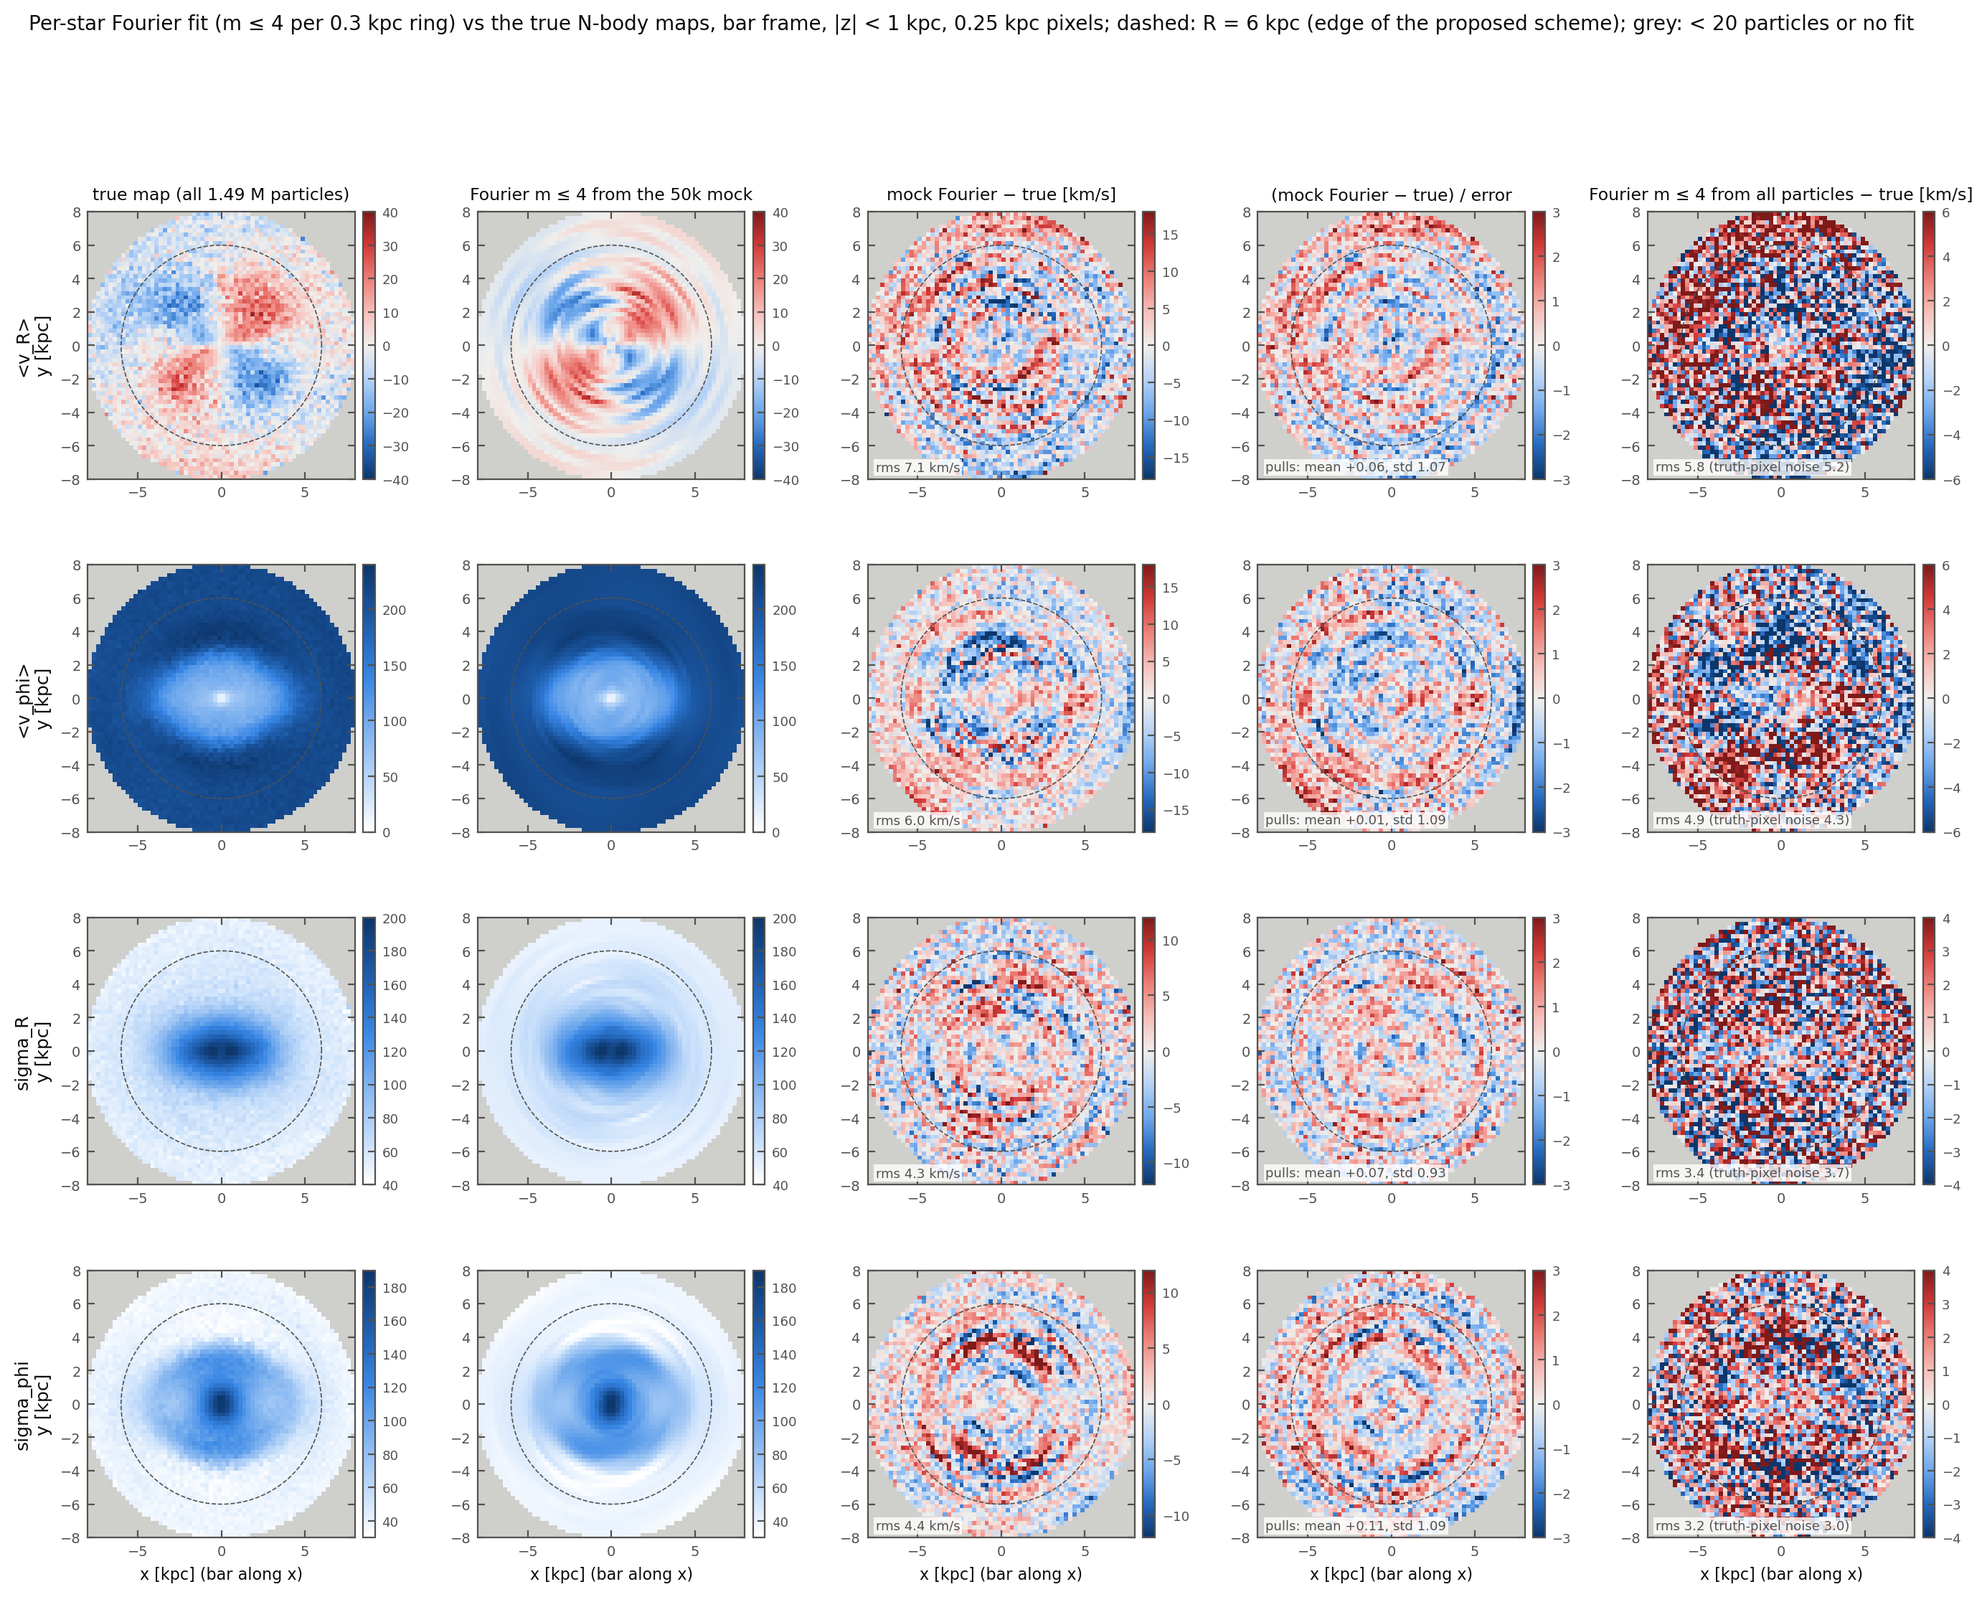
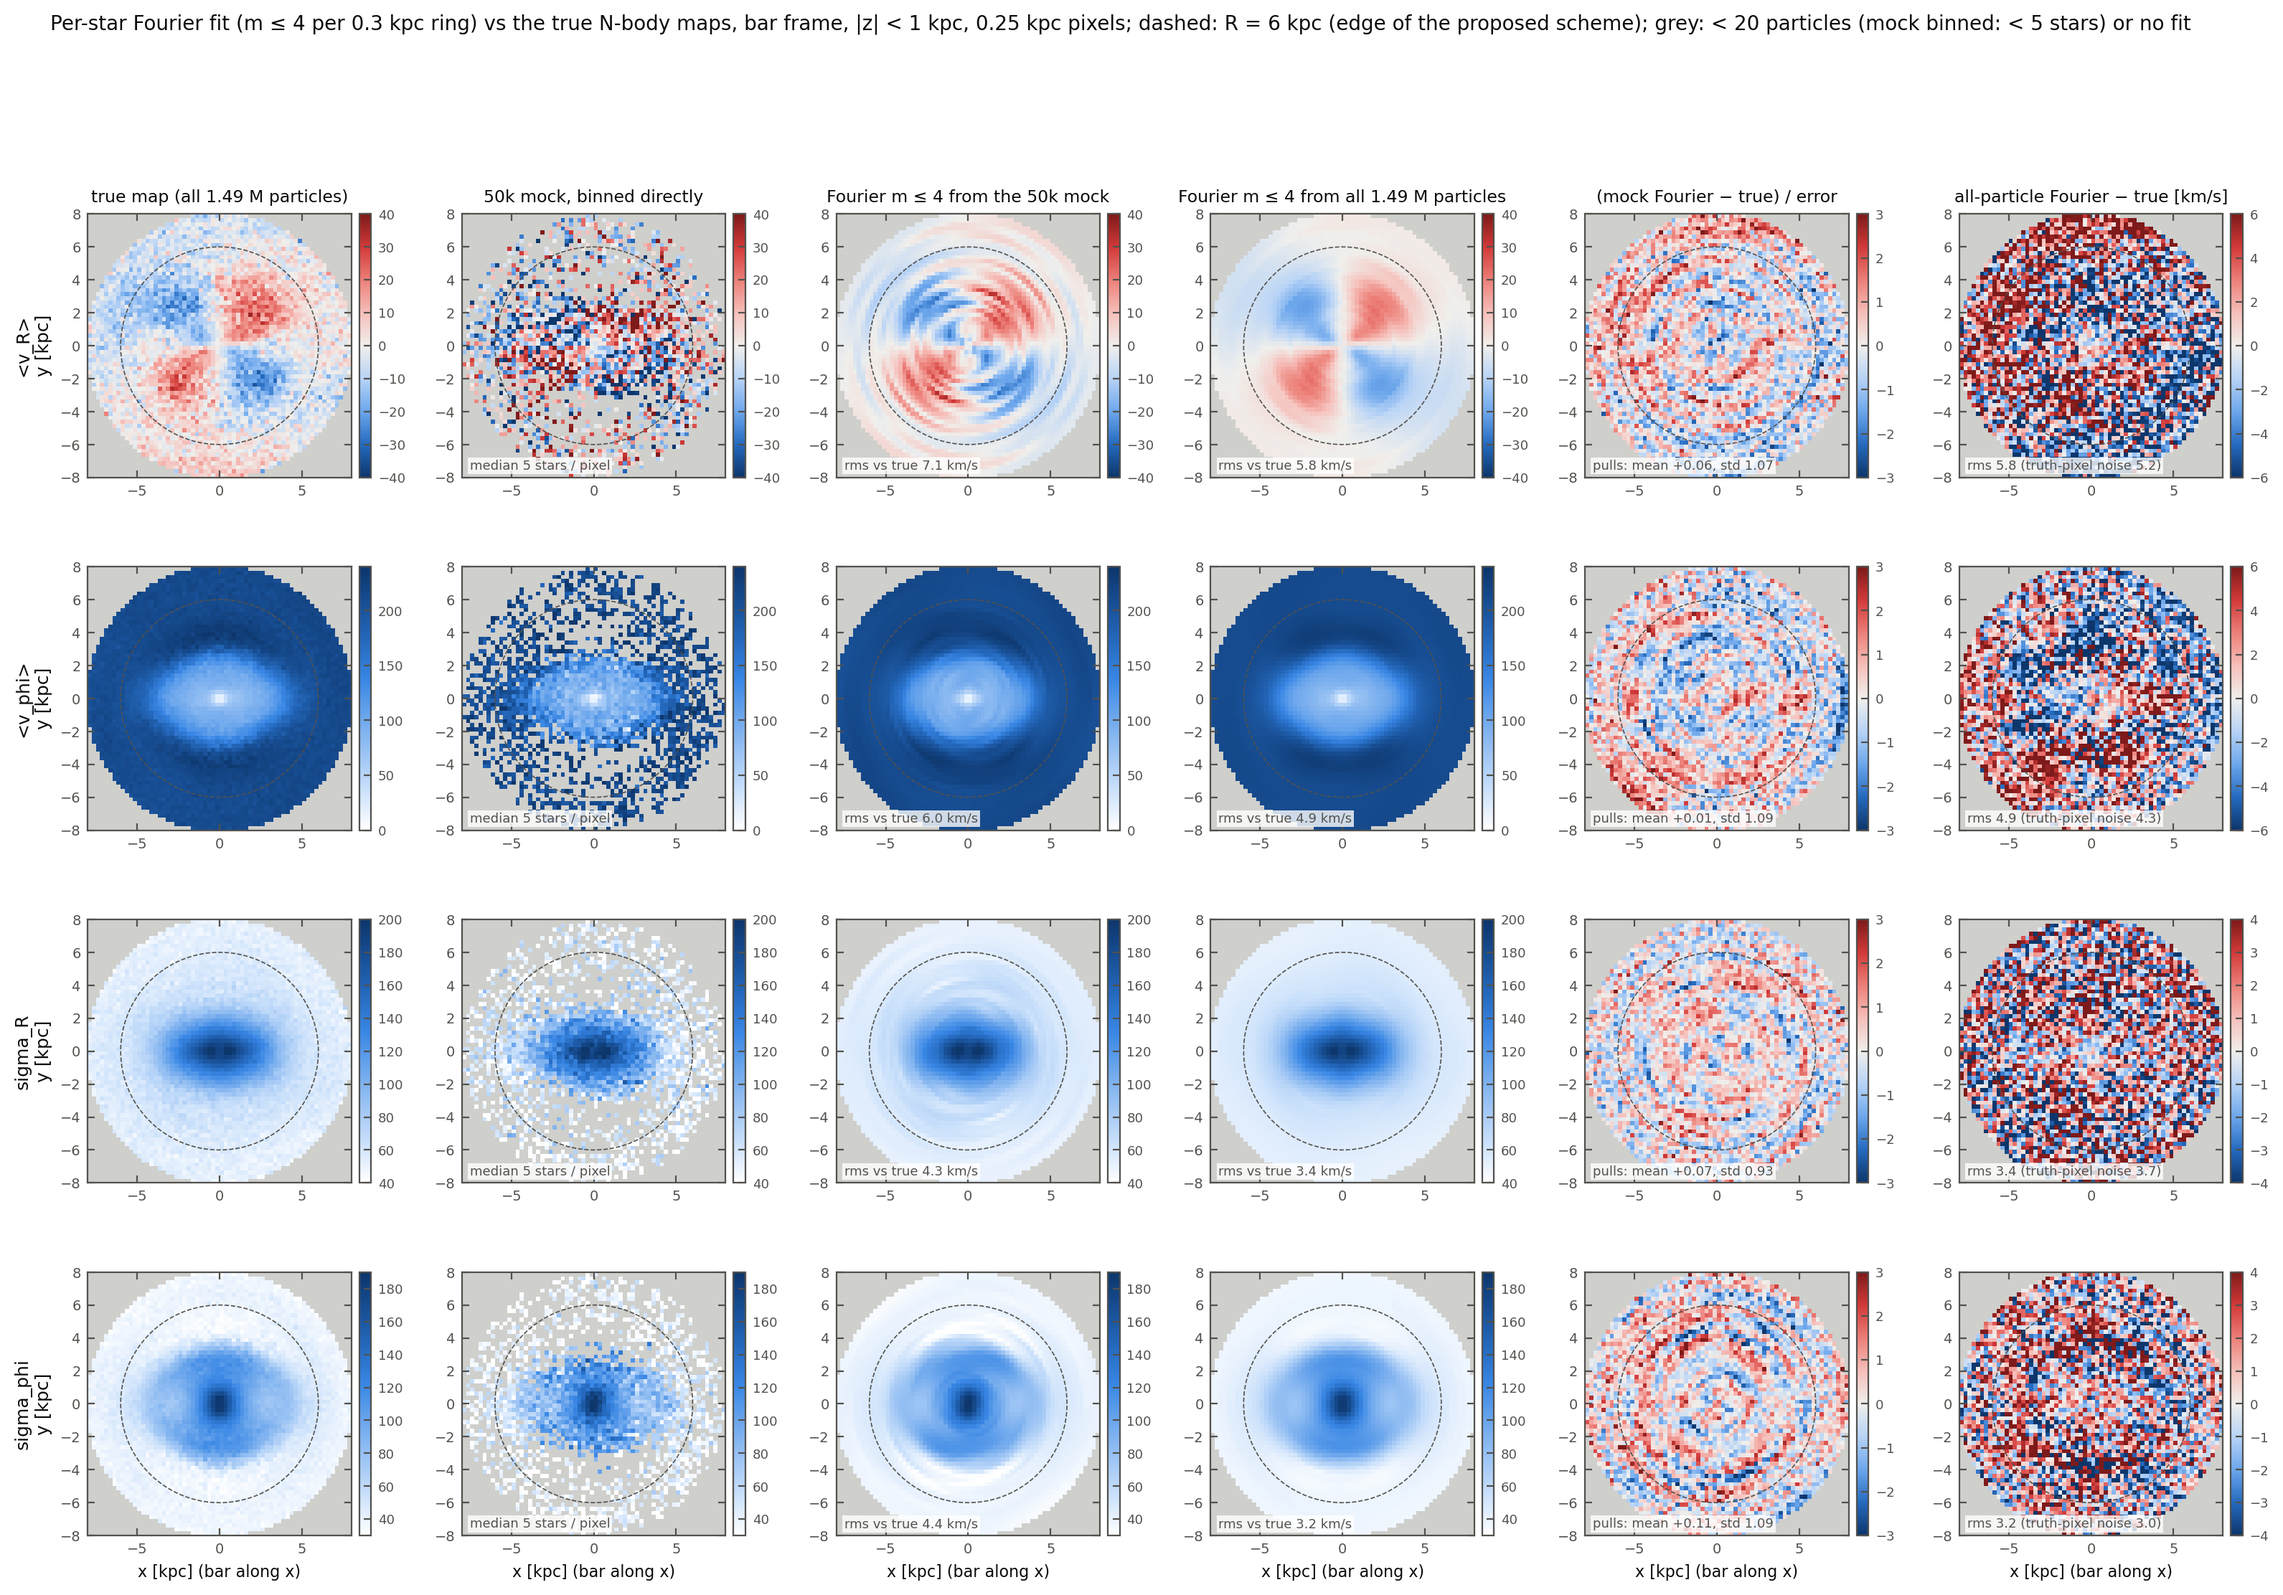
Ground-truth check: add raw-mock and all-particle reconstruction maps, per-ring signal to noise

diff --git a/scripts/check_fourier_star_fit_vs_true_maps.py b/scripts/check_fourier_star_fit_vs_true_maps.py
@@ -15,7 +15,13 @@ at random), in the bar frame at the true angle (27 deg), number-weighted like th
      field, and chi2 / N of the real mock (and of the independent mocks) against the pool with either covariance.
   5. What m <= 4 leaves out of the true maps: amplitudes of m = 1, 3, 6, 8 per ring (|z| < 1, R < 6) fitted to the pool
      together with the even m <= 4 terms.
-Maps: face-on square pixels, bar frame, one |z| layer. A pixel's reconstruction is evaluated at the pool particles in that
+  6. Signal to noise per ring of the terms that carry the bar pattern: the true amplitude (all particles) of the m = 2
+     term of <v_R>, <v_phi>, sigma_R^2, sigma_phi^2 (and the m = 0 term of sigma_R^2) over the mock's 1-sigma error
+     (bootstrap covariance; sqrt of the mean of the cos and sin variances).
+Maps: face-on square pixels, bar frame, one |z| layer. Columns: true map; the 50k mock binned directly in the same pixels
+(the raw data; grey below MOCK_PIX_MIN stars); m <= 4 reconstruction from the 50k mock (what the likelihood uses); m <= 4
+reconstruction from all particles; (mock reconstruction - true) / error; (all-particle reconstruction - true).
+A pixel's reconstruction is evaluated at the pool particles in that
 pixel (mean of <v>(phi_i) of each particle's ring; sigma^2 = mean of sigma^2(phi_i) + the scatter of <v>(phi_i)), so it
 is compared like for like with the binned truth. Pixel errors: reconstruction from the joint bootstrap covariance; truth
 s / sqrt(N) and s / sqrt(2N).
@@ -39,6 +45,7 @@ from test1_nbody_qmc import TRUTH, MOCK
 
 POOL = MOCK_DIR / "nbody_stars_mwframe.hdf5"
 N_PIX_MIN = 20
+MOCK_PIX_MIN = 5
 FIELDS = [("<v_R>", 0, "mean"), ("<v_phi>", 1, "mean"), ("sigma_R", 0, "disp"), ("sigma_phi", 1, "disp")]
 LAYERS = [(0, 0.25, "absz_0to1", "|z| < 1 kpc"), (1, 0.5, "absz_1to2", "1 < |z| < 2 kpc")]
 OUT_JSON = ROOT / "results" / "test1_nbody_qmc_focused" / "fourier_star_fit_vs_true_maps.json"
@@ -168,6 +175,37 @@ def pixel_maps(pos, b, X, v, edges, coefs, cov):
     return out
 
 
+def binned_maps(pos, v, edges, n_min):
+    """Directly binned mean and unbiased dispersion maps of v_R, v_phi (grey below n_min stars)."""
+    out = {}
+    N = np.histogram2d(pos[:, 1], pos[:, 0], bins=[edges, edges])[0]
+    with np.errstate(invalid="ignore", divide="ignore"):
+        for name, a, kind in FIELDS:
+            s1 = np.histogram2d(pos[:, 1], pos[:, 0], bins=[edges, edges], weights=v[:, a])[0]
+            s2 = np.histogram2d(pos[:, 1], pos[:, 0], bins=[edges, edges], weights=v[:, a]**2)[0]
+            m = s1 / N
+            img = m if kind == "mean" else np.sqrt(np.maximum((s2 / N - m**2) * N / (N - 1), 0))
+            out[name] = np.where(N < n_min, np.nan, img)
+    return out, N
+
+
+def signal_to_noise(c_pool, cov, valid):
+    """Check 6: per layer, [median, min, max] over rings (R < 6) of true amplitude / mock 1-sigma error."""
+    terms = {"<v_R> m2": (0, (1, 2)), "<v_phi> m2": (1, (1, 2)), "sigma_R^2 m0": (3, (0,)),
+             "sigma_R^2 m2": (3, (1, 2)), "sigma_phi^2 m2": (4, (1, 2))}
+    out = {}
+    ring, layer = np.divmod(np.arange(fs.NB), fs.NL)
+    for z, lab in enumerate(["absz_0to1", "absz_1to2", "absz_2to3"]):
+        blocks = np.flatnonzero(valid & (ring < fs.N_RING_DEFAULT) & (layer == z))
+        out[lab] = {}
+        for name, (f, ks) in terms.items():
+            amp = np.sqrt(np.sum(c_pool[blocks, f][:, list(ks)]**2, axis=1))
+            err = np.sqrt(np.mean([cov[blocks, f * NK + k, f * NK + k] for k in ks], axis=0))
+            snr = amp / err
+            out[lab][name] = [round(float(np.median(snr)), 2), round(float(snr.min()), 2), round(float(snr.max()), 2)]
+    return out
+
+
 def panel_stats(t, te, rec, re=None):
     ok = np.isfinite(t) & np.isfinite(rec)
     d = (rec - t)[ok]
@@ -180,24 +218,25 @@ def panel_stats(t, te, rec, re=None):
     return s
 
 
-def figure(maps, edges, label, tag, stats):
-    cols = ["true map (all 1.49 M particles)", "Fourier m ≤ 4 from the 50k mock",
-            "mock Fourier − true [km/s]", "(mock Fourier − true) / error",
-            "Fourier m ≤ 4 from all particles − true [km/s]"]
-    fig, axes = plt.subplots(len(FIELDS), len(cols), figsize=(3.3 * len(cols), 3.0 * len(FIELDS)),
+def figure(maps, mock_binned, n_mock, edges, label, tag, stats):
+    cols = ["true map (all 1.49 M particles)", "50k mock, binned directly", "Fourier m ≤ 4 from the 50k mock",
+            "Fourier m ≤ 4 from all 1.49 M particles", "(mock Fourier − true) / error",
+            "all-particle Fourier − true [km/s]"]
+    fig, axes = plt.subplots(len(FIELDS), len(cols), figsize=(3.2 * len(cols), 3.0 * len(FIELDS)),
                              gridspec_kw=dict(hspace=0.32, wspace=0.42))
     th = np.linspace(0, 2 * np.pi, 200)
     for r, (name, _, kind) in enumerate(FIELDS):
         m = maps[name]
         cmap, lo, hi = VALUE_LIMS[name]
         dlim = 6.0 if kind == "mean" else 4.0
-        panels = [(m["truth"], cmap, lo, hi), (m["mock"], cmap, lo, hi),
-                  (m["mock"] - m["truth"], CMAP_DIV, -3 * dlim, 3 * dlim),
+        panels = [(m["truth"], cmap, lo, hi), (mock_binned[name], cmap, lo, hi), (m["mock"], cmap, lo, hi),
+                  (m["pool"], cmap, lo, hi),
                   ((m["mock"] - m["truth"]) / np.sqrt(m["mock_err"]**2 + m["truth_err"]**2), CMAP_DIV, -3, 3),
                   (m["pool"] - m["truth"], CMAP_DIV, -dlim, dlim)]
         st = stats[name]
-        notes = [None, None,
-                 f"rms {st['mock']['rms_kms']:.1f} km/s",
+        nmed = np.median(n_mock[n_mock > 0])
+        notes = [None, f"median {nmed:.0f} stars / pixel", f"rms vs true {st['mock']['rms_kms']:.1f} km/s",
+                 f"rms vs true {st['pool']['rms_kms']:.1f} km/s",
                  f"pulls: mean {st['mock']['pull_mean']:+.2f}, std {st['mock']['pull_std']:.2f}",
                  f"rms {st['pool']['rms_kms']:.1f} (truth-pixel noise {st['pool']['rms_truth_noise_kms']:.1f})"]
         for c, ((img, cm, vlo, vhi), note) in enumerate(zip(panels, notes)):
@@ -221,7 +260,7 @@ def figure(maps, edges, label, tag, stats):
             cb.ax.tick_params(labelsize=6.5)
     fig.suptitle(f"Per-star Fourier fit (m ≤ 4 per 0.3 kpc ring) vs the true N-body maps, bar frame, {label}, "
                  f"{edges[1] - edges[0]:g} kpc pixels; dashed: R = 6 kpc (edge of the proposed scheme); grey: < "
-                 f"{N_PIX_MIN} particles or no fit", fontsize=10, y=0.995)
+                 f"{N_PIX_MIN} particles (mock binned: < {MOCK_PIX_MIN} stars) or no fit", fontsize=10, y=0.995)
     savefig(fig, f"test1_nbody_fourier_star_fit_vs_true_maps_{tag}")
 
 
@@ -279,6 +318,9 @@ def main():
     res["error_model"] = error_model_check(pool, bp, Xp, vp, mp, ok, v_all, s["n_stars"].reshape(fs.NB), c_mock,
                                             c_lib, c_pool, cov)
     res["modes_outside_basis_kms"] = missing_modes(pool, bp, Xp, vp, mp)
+    res["signal_to_noise_per_ring"] = signal_to_noise(c_pool, cov, v_all)
+    mock_pos = load(MOCK)
+    mock_pos = mock_pos[fs.prepare(mock_pos)[3]]
 
     # 1, 2. maps
     pos = pool[mp]
@@ -293,7 +335,9 @@ def main():
             stats[name] = dict(mock=panel_stats(m["truth"], m["truth_err"], m["mock"], m["mock_err"]),
                                pool=panel_stats(m["truth"], m["truth_err"], m["pool"]))
         res["maps"][tag] = stats
-        figure(maps, edges, label, tag, stats)
+        in_layer = ((bm % fs.NL) == layer) & valid[bm]
+        mock_binned, n_mock = binned_maps(mock_pos[in_layer], vm[in_layer], edges, MOCK_PIX_MIN)
+        figure(maps, mock_binned, n_mock, edges, label, tag, stats)
     OUT_JSON.parent.mkdir(parents=True, exist_ok=True)
     with open(OUT_JSON, "w") as fh:
         json.dump(res, fh, indent=1)

diff --git a/PROGRESS.md b/PROGRESS.md
@@ -1349,8 +1349,30 @@ Truth: 26.02, 27°, 1, 1. All truth offsets are within 0.54σ. (*LOO on the old 
   - With the true covariance: mock vs true 1.00, truth library vs true 0.16.
   - The library's misfit is concentrated in the m = 0 dispersion terms (σ_R² 0.56, σ_z² 0.50, σ_φ² 0.40 per term,
     against 0.07–0.13 for m = 2, 4). That is the "hot library".
+**Why the |z| 1–2 ⟨v_R⟩ reconstruction from the mock looks broken (2026-10-28, user question).**
+- Two map columns were added to the figures:
+  - the 50k mock binned directly in the same pixels: median 4 stars per 0.5 kpc pixel at |z| 1–2, and 5 per
+    0.25 kpc pixel at |z| < 1;
+  - the m ≤ 4 reconstruction from all 1.49 M particles.
+- From all particles the quadrupole comes out cleanly at both layers. So the method and the phases are right; the
+  mock is noise-limited.
+- Signal-to-noise per ring (R < 6; true amplitude / mock 1σ error; median, range):
+
+  | term | \|z\| 0–1 | \|z\| 1–2 | \|z\| 2–3 |
+  |---|---|---|---|
+  | ⟨v_R⟩ m = 2 | 3.9 (0.6–4.8) | **1.1 (0.2–1.7)** | 0.3 |
+  | ⟨v_φ⟩ m = 2 | 3.8 (0.4–11) | 1.5 (0.2–7.0) | 0.2 |
+  | σ_R² m = 0 | 23 (17–60) | 10 (5.9–18) | 3.7 |
+  | σ_R² m = 2 | 6.5 (1.1–8.7) | 1.0 (0.1–4.0) | 0.4 |
+  | σ_φ² m = 2 | 3.7 (0.4–11) | 1.9 (0.3–3.1) | 0.6 |
+
+- At |z| 1–2 each 0.3 kpc ring's ⟨v_R⟩ quadrupole is measured at about 1σ, so the per-ring reconstruction is mostly
+  noise. Because each ring is fitted independently, that noise shows up as arcs.
+- The dispersion maps look good because their contrast is the m = 0 radial profile, measured at S/N 10–23 per ring.
+  Their m = 2 parts are as noisy as ⟨v_R⟩.
+- The pulls (std 0.94–1.10) confirm these are noise of the stated size, not a bug.
 - Options, not yet done:
-  - bigger blocks at |z| ≥ 1 (e.g. 0.6 kpc rings at |z| 1–2, drop |z| 2–3);
+  - bigger blocks at |z| ≥ 1 (e.g. ~1 kpc rings at |z| 1–2 for ≳ 700 stars per block, drop |z| 2–3);
   - a model-based covariance (mock-sized draws from a reference library, one random snapshot per orbit);
   - shrinking the joint covariance towards per-field.
 
